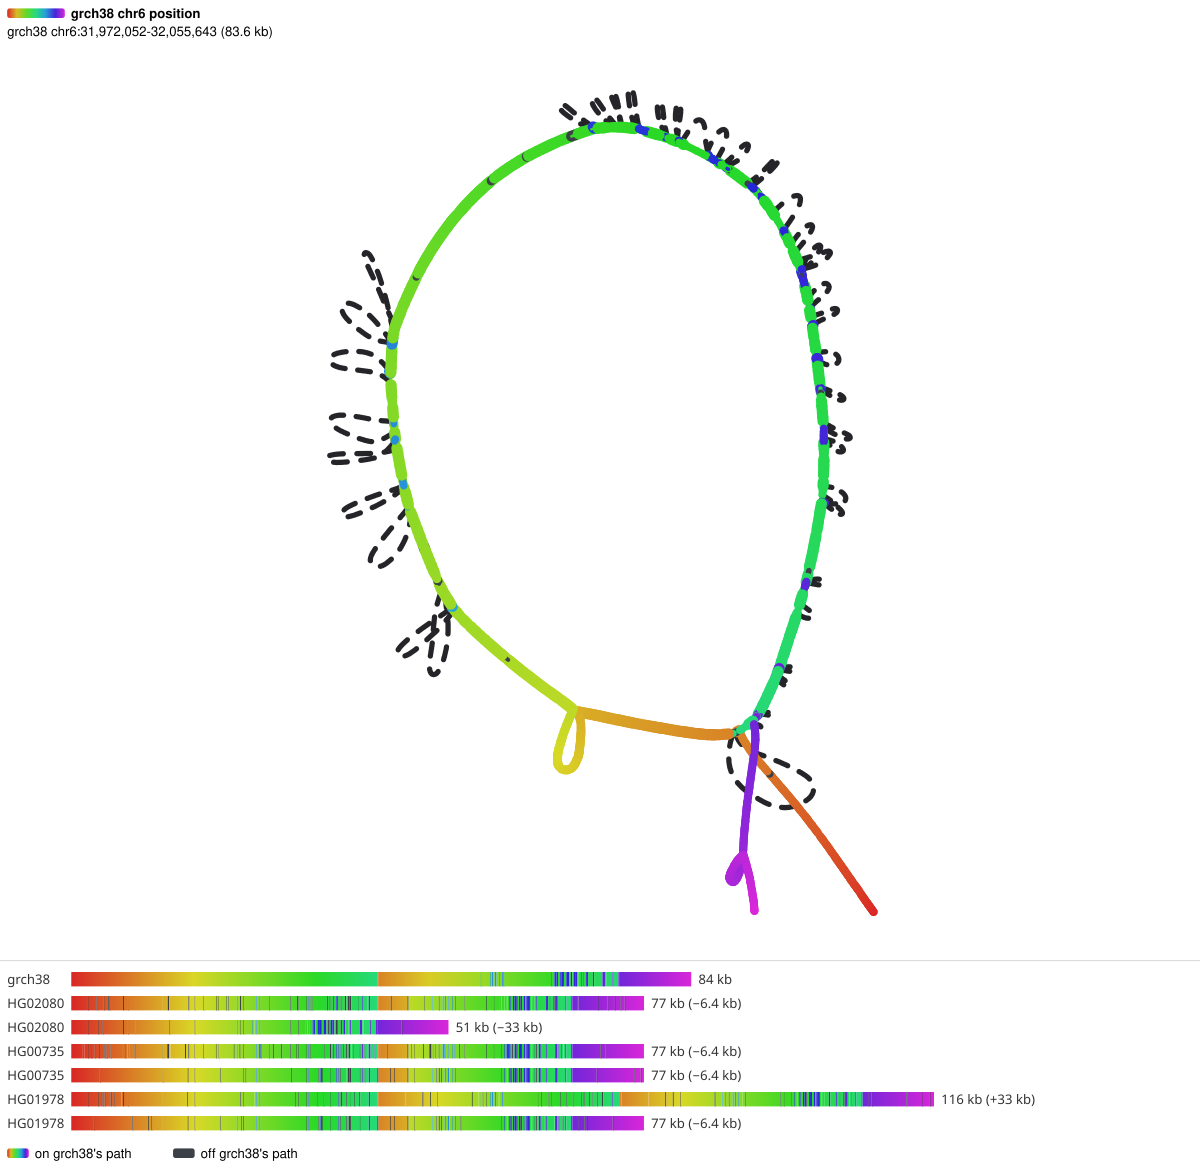
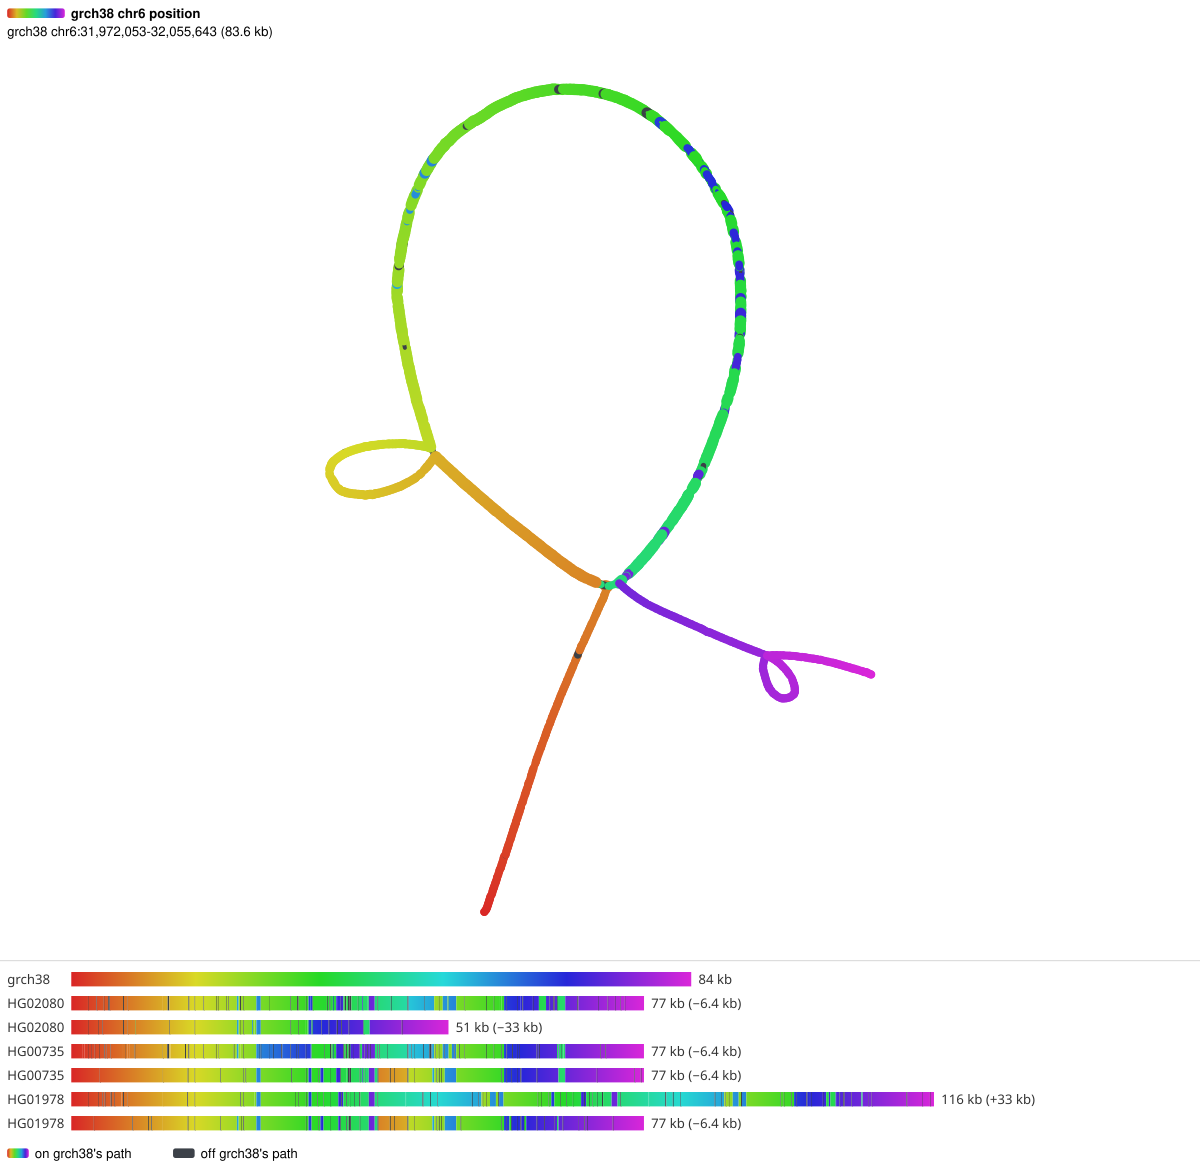
Take bandage-core 11.6.1, and explain the syng C4 figure's colours
The dashed loops were not variants: they were links between C4A's and C4B's
own nodes, which bandage-core drew as 32.7 kb deletions because GRCh38
walks the shared nodes twice and each took its first visit's coordinate.
11.6.1 reads those links as copy switches, keeps GRCh38's row a smooth
gradient, and colours each haplotype copy by the GRCh38 copy it continues.
img/syng_c4.png is redrawn on it.

diff --git a/docs/data.md b/docs/data.md
@@ -45,9 +45,21 @@ Three quirks of impg 0.5.0's output, which the script works around:
 - Path names nest a range in a range (`chr6:31972046-32055647:0-83601`), and the
   walk keys read only the last one
 
-The dashed loops off the backbone are variants. A syng branch repeats the
-reference's sequence on both sides of a variant, so a SNP draws as a loop of
-about 80 bp, where in a pggb graph it would be a 1 bp bubble.
+GRCh38 has C4A and C4B, two copies of a 32.7 kb module, and syng folds both onto
+one copy's nodes. GRCh38 walks the ring twice, and a haplotype's copy count is
+how often it goes round:
+
+- A node takes the colour of GRCh38's first visit, so the ring shows C4A's hues.
+  The blue specks are nodes GRCh38 walks only in C4B, where C4B differs from C4A
+- A walk row follows each copy to the GRCh38 copy it continues, and switches
+  where it walks a node only C4A or only C4B holds. GRCh38's own row stays a
+  smooth gradient
+- A syng branch repeats the reference's sequence on both sides of a variant, so
+  a SNP draws as an off-path run of tens of bp, the charcoal specks on the ring,
+  where a pggb graph draws a 1 bp bubble
+
+bandage-core before 11.6.1 painted every revisit in the first copy's colours and
+drew each link between the copies' own nodes as a dashed 32.7 kb deletion.
 
 ## Opening tracks
 
